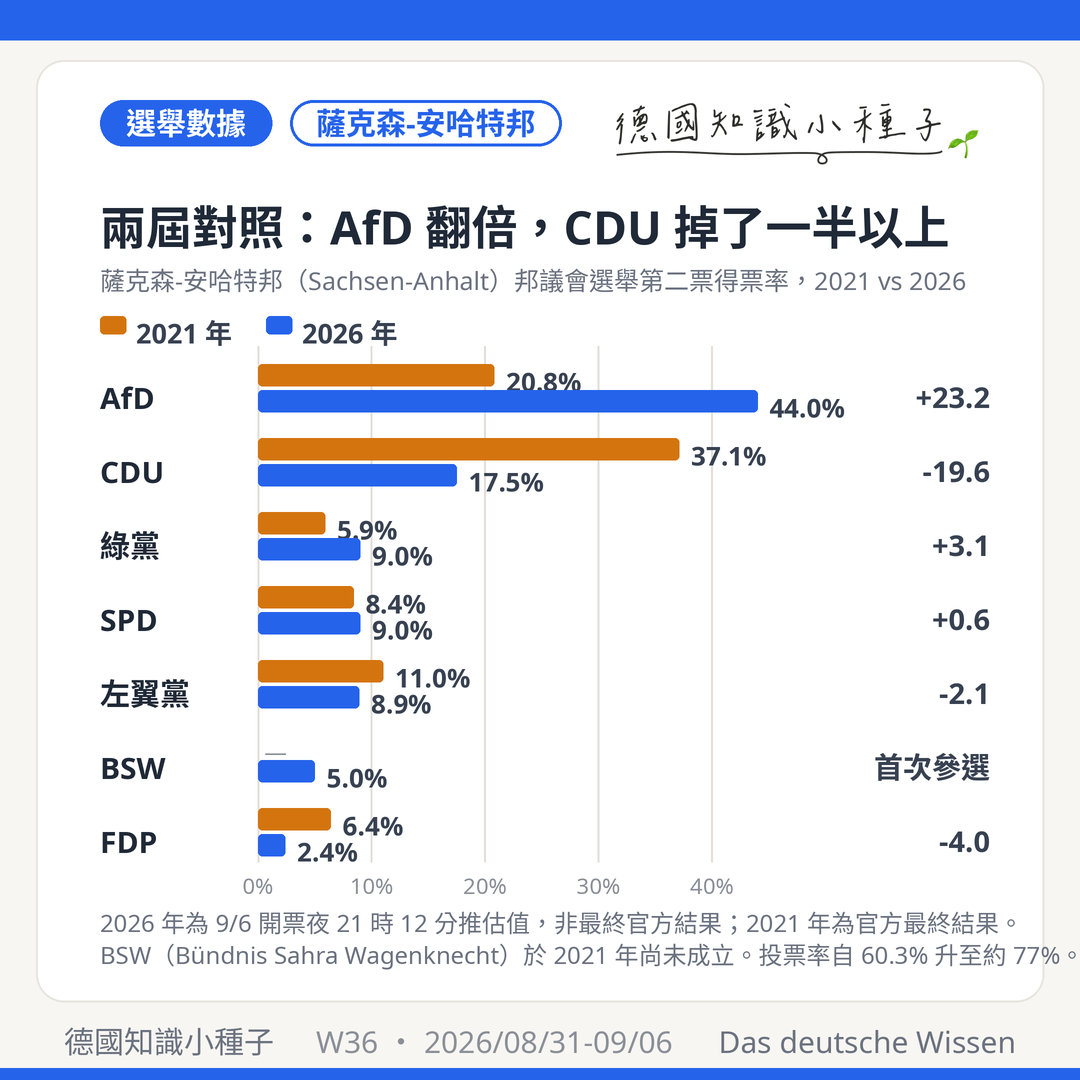
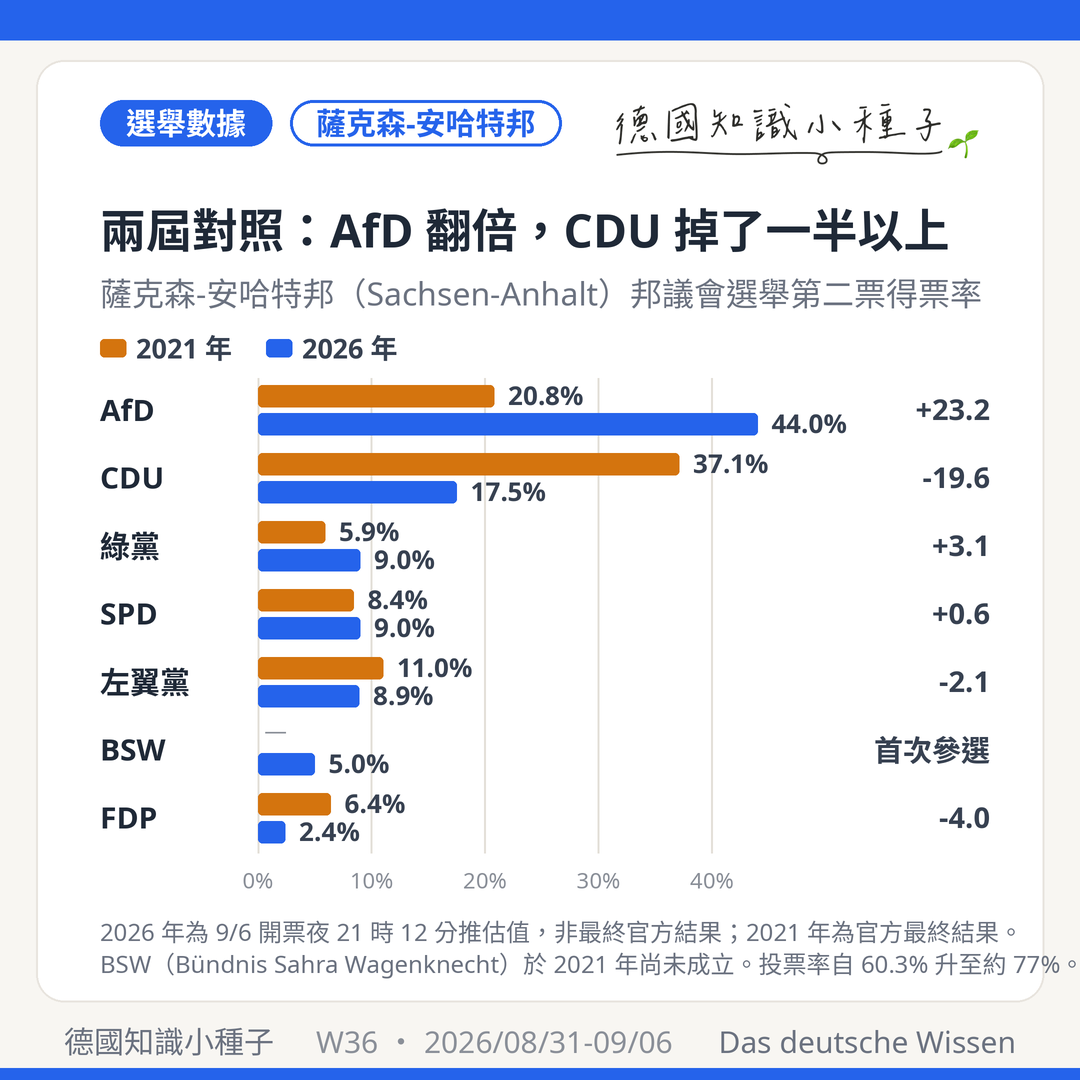
圖表卡排版：改用 bbox 垂直置中，並對齊同系列卡的標題／副標間距
原本圖表卡的文字位置是手動加 offset 算的，導致類別名、數值標籤與變化量
都比對應的長條低約 7px，看起來像沉在長條下緣；標題與副標的間距也比
標準卡窄（14px vs 19px），整體偏擠。

- 類別名與變化量改對齊「該列兩條長條的共同中線」，
  數值標籤改對齊「該條長條自己的中線」，一律用 draw_mixed_vcentered()
  以實際字面 bbox 置中（CLAUDE.md：框內文字勿手動加 offset）
- 標題／副標改用與 make_card() 完全相同的座標與字級級距，
  像素掃描確認 badge→標題 38px 與標準卡一致、標題→副標 21px（標準卡 19px）
- 繪圖區改由 TOP／ROW_H／BAR_H／BAR_GAP 幾何常數推導，不再散落魔術數字
- 圖例下移，使其與圖表的距離（13px）小於與副標的距離（21px），
  視覺上歸屬到圖表而非副標
- 副標縮短（年份已在圖例呈現），修正縮到字級下限仍被右緣裁切
- 末列與底部刻度、刻度與註腳的間距一併拉開

七張卡結構像素比對：尺寸 1080×1080、色條 43px、卡緣 35px、邊框 4px
全部與 W35 基準一致；產圖器五項檢查 0 警告。

Claude-Session: https://claude.ai/code/session_0146auhYrkbMfHeQpEpSdo4p

diff --git a/scripts/cardgen/make_weekly_cards.py b/scripts/cardgen/make_weekly_cards.py
@@ -1382,56 +1382,64 @@ def make_chart_card(spec, path, week_label='W?', date_label=''):
 
     paste_wordmark(img)
 
-    tsize = 56
-    while mixed_width(spec['title'], tsize*S, bold=True) > 884*S and tsize > 42:
+    tsize = 62
+    while mixed_width(spec['title'], tsize*S, bold=True) > 884*S and tsize > 46:
         tsize -= 2
-    draw_mixed(d, R(100, 186 + (56-tsize)//2), spec['title'], tsize*S, TITLE_C, bold=True)
+    draw_mixed(d, R(100, 186 + (62-tsize)//2), spec['title'], tsize*S, TITLE_C, bold=True)
     if mixed_width(spec['title'], tsize*S, bold=True) > 884*S:
         print(f'  ⚠ title clipped: 縮到 {tsize}px 仍超出 884px，請改短標題  ({path})')
-    ssize = 32
-    while mixed_width(spec['subtitle'], ssize*S) > 884*S and ssize > 25:
+    ssize = 36
+    while mixed_width(spec['subtitle'], ssize*S) > 884*S and ssize > 27:
         ssize -= 1
-    draw_mixed(d, R(100, 258 + (32-ssize)//2), spec['subtitle'], ssize*S, SUB_C)
+    draw_mixed(d, R(100, 266 + (36-ssize)//2), spec['subtitle'], ssize*S, SUB_C)
     if mixed_width(spec['subtitle'], ssize*S) > 884*S:
         print(f'  ⚠ subtitle clipped: 縮到 {ssize}px 仍超出 884px，請改短副標  ({path})')
 
     # 圖例（兩組數列一律附圖例，識別不靠顏色單一管道）
-    lx, ly = 100, 312
+    lx, ly_mid = 100, 348
     for col, name in ((SERIES_OLD, spec['label_old']), (SERIES_NEW, spec['label_new'])):
-        d.rounded_rectangle(R(lx, ly+4, lx+26, ly+22), radius=4*S, fill=col)
-        draw_mixed(d, R(lx+36, ly), name, 27*S, BODY_C, bold=True)
+        d.rounded_rectangle(R(lx, ly_mid-9, lx+26, ly_mid+9), radius=4*S, fill=col)
+        draw_mixed_vcentered(d, R(lx+36, ly_mid), name, 27*S, BODY_C, bold=True)
         lx += 36 + mixed_width(name, 27*S, bold=True)/S + 34
 
-    # 繪圖區
+    # 繪圖區幾何：全部由這幾個常數推導，勿在下方手動加 offset
     X0, X1 = 258, 780          # 長條起點與滿刻度（右側留給變化欄）
     VMAX = spec.get('vmax', 46)
     rows = spec['rows']
-    top, row_h = 356, 74
+    TOP, ROW_H = 376, 68       # 第一列上緣、列高
+    BAR_H, BAR_GAP = 22, 6     # 長條厚度、同列兩條之間的底色間隙
+    PAIR_H = BAR_H*2 + BAR_GAP
     def vx(v):
         return X0 + (X1 - X0) * v / VMAX
+    def pair_top(i):           # 一列內的兩條長條，在列高中垂直置中
+        return TOP + i*ROW_H + (ROW_H - PAIR_H) / 2
 
-    # recessive 格線（畫在長條之下）
+    plot_bot = pair_top(len(rows)-1) + PAIR_H
+
+    # recessive 格線（畫在長條之下）＋底部刻度
     for g in range(0, int(VMAX)+1, 10):
         gx = vx(g)
-        d.line(R(gx, top-10, gx, top + len(rows)*row_h - 12), fill=GRID_C, width=2*S)
-        draw_mixed(d, R(gx, top + len(rows)*row_h - 6), f'{g}%', 22*S, FOOT_C, anchor='center')
+        d.line(R(gx, TOP + 2, gx, plot_bot + 10), fill=GRID_C, width=2*S)
+        draw_mixed_vcentered(d, R(gx, plot_bot + 38), f'{g}%', 22*S, FOOT_C, anchor='center')
 
     for i, (name, v_old, v_new, delta) in enumerate(rows):
-        cy = top + i*row_h
-        draw_mixed(d, R(100, cy + 18), name, 30*S, TITLE_C, bold=True)
-        # 上：舊屆；下：新屆。兩條之間留 4px 底色間隙
+        pt = pair_top(i)
+        mid = pt + PAIR_H / 2
+        # 類別名與變化量都對齊「兩條長條的共同中線」
+        draw_mixed_vcentered(d, R(100, mid), name, 30*S, TITLE_C, bold=True)
         for k, (v, col) in enumerate(((v_old, SERIES_OLD), (v_new, SERIES_NEW))):
-            by = cy + 8 + k*26
+            by = pt + k*(BAR_H + BAR_GAP)
             if v is None:                       # 該屆尚未成立 → 不畫長條，只標記
-                draw_mixed(d, R(X0 + 6, by - 3), '—', 26*S, FOOT_C)
+                draw_mixed_vcentered(d, R(X0 + 6, by + BAR_H/2), '—', 26*S, FOOT_C)
                 continue
-            d.rounded_rectangle(R(X0, by, max(vx(v), X0 + 8), by + 22), radius=4*S, fill=col)
-            draw_mixed(d, R(max(vx(v), X0 + 8) + 12, by - 3), f'{v:.1f}%', 26*S, BODY_C, bold=True)
-        # 變化量（文字一律用墨色，不套數列色）
-        draw_mixed(d, R(990, cy + 18), delta, 29*S, BODY_C, bold=True, anchor='right')
+            bx1 = max(vx(v), X0 + 8)
+            d.rounded_rectangle(R(X0, by, bx1, by + BAR_H), radius=4*S, fill=col)
+            # 數值標籤對齊「該條長條自己的中線」
+            draw_mixed_vcentered(d, R(bx1 + 14, by + BAR_H/2), f'{v:.1f}%', 26*S, BODY_C, bold=True)
+        draw_mixed_vcentered(d, R(990, mid), delta, 29*S, BODY_C, bold=True, anchor='right')
 
     # 圖表註腳
-    ny = top + len(rows)*row_h + 30
+    ny = plot_bot + 70
     for line in spec.get('notes', ()):
         draw_mixed(d, R(100, ny), line, 24*S, SUB_C)
         ny += 32
@@ -1470,7 +1478,7 @@ CARDS = [
  dict(
   kind='chart', theme='#2563EB', badges=[('選舉數據', True), ('薩克森-安哈特邦', False)],
   title='兩屆對照：AfD 翻倍，CDU 掉了一半以上',
-  subtitle='薩克森-安哈特邦（Sachsen-Anhalt）邦議會選舉第二票得票率，2021 vs 2026',
+  subtitle='薩克森-安哈特邦（Sachsen-Anhalt）邦議會選舉第二票得票率',
   label_old='2021 年', label_new='2026 年', vmax=46,
   rows=[
    ('AfD',   20.8, 44.0, '+23.2'),
